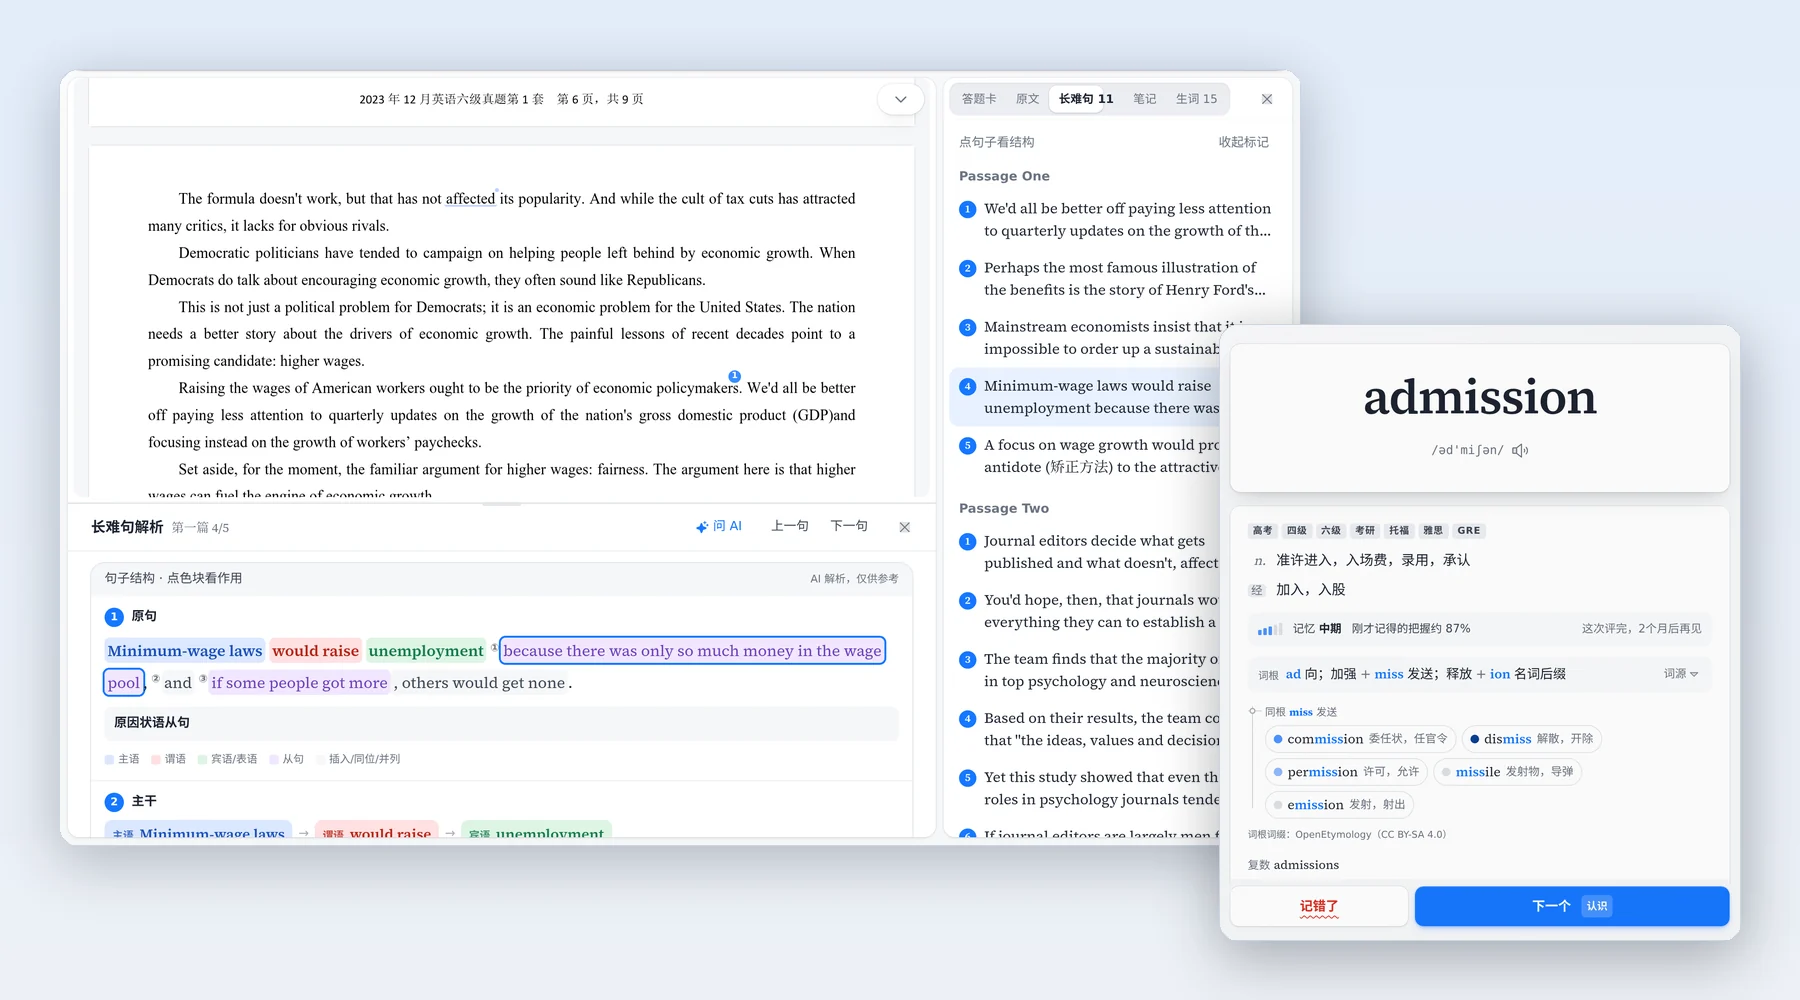
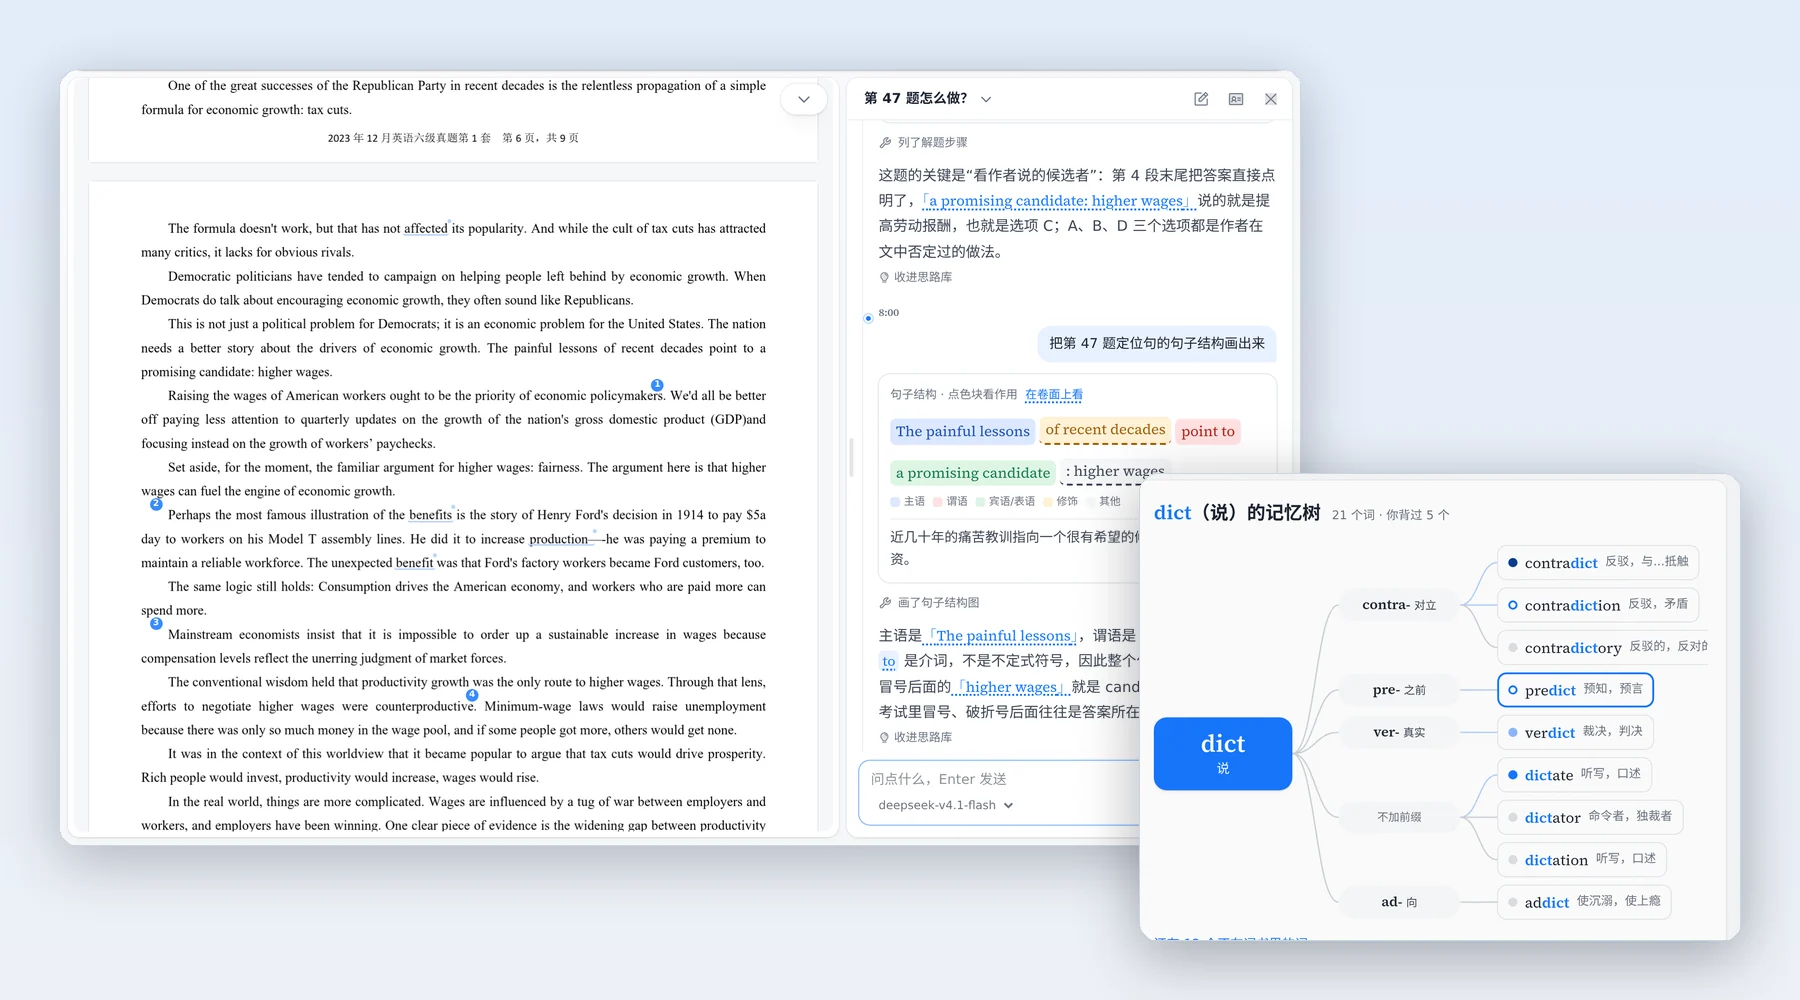
README：以 AI 助教为重点重排功能，配图全部换成新截图

Changed region(s): [[0.0622, 0.093, 0.9956, 0.961], [0.0933, 0.062, 0.4356, 0.155], [0.7156, 0.899, 0.7467, 0.93]]

diff --git a/README.md b/README.md
@@ -16,7 +16,7 @@ React · TypeScript · Vite · PWA · IndexedDB · PDF.js · FSRS
 </div>
 
 <p align="center">
-  <img src="docs/images/hero.webp" alt="英语之道：原卷做题、长难句结构解析和背词卡片" width="100%">
+  <img src="docs/images/hero.webp" alt="英语之道：AI 助教在卷子旁边画句子结构图，右下是记忆树" width="100%">
 </p>
 
 ## 为什么做这个
@@ -36,22 +36,84 @@ flowchart LR
 ```
 
 - **原卷就是界面**：每套卷子都按原版 PDF 显示，不改写成网页题目。点词查词、点题号选答案、用笔在卷面上写。
-- **AI 看得到你的上下文**：助教能看到当前文章、题目、你的作答、对错、每题用时和卷面笔记，不用复制粘贴。
+- **AI 看得到你的上下文**：助教能看到当前文章、题目、你的作答、对错、每题用时和卷面笔记，能读写生词本和错题本，还记得你的薄弱点，不用复制粘贴。
 - **生词本就是词书**：在卷子里查过的词带着原句进生词本，之后再出现在别的卷子里会被标出来。
 - **数据在本地**：做题记录、笔记、生词和复习进度都存在浏览器的 IndexedDB 里，可以离线使用，也能导出备份。
 
 ## 功能
+
+### AI 助教
+
+<img src="docs/images/agent-steps.webp" alt="AI 助教在卷子旁边分屏讲第 47 题：解题步骤卡，一步一步点开" width="100%">
+
+在卷子旁边分屏打开。它看得到整套卷子和你的作答，问「第 47 题怎么做」，回答里直接嵌一张解题步骤卡，按固定顺序一步一步点开：
+
+1. **读题**：这道题问什么，属于哪类题；
+2. **定位**：去文章哪里找，关键词是什么；
+3. **定位句**：把原文句子引出来并解释；
+4. **解题和排除**：为什么选这个，其他选项错在哪。
+
+<table>
+<tr>
+<td width="33%"><img src="docs/images/agent-map.webp" alt="回答里嵌入句子结构图"></td>
+<td width="33%"><img src="docs/images/agent-review.webp" alt="交卷后找 Agent 复盘整套卷子"></td>
+<td width="33%"><img src="docs/images/agent-vocab.webp" alt="Agent 查生词本，给出词汇卡"></td>
+</tr>
+<tr>
+<td><b>可视化回答</b>：句子结构图按成分分色，点色块看作用，也能在卷面上对照。</td>
+<td><b>交卷复盘</b>：交卷单上点「找 Agent 复盘」，它按对错和每题用时讲错在哪、接下来怎么练。</td>
+<td><b>读写生词本</b>：查你的生词本，挑出这篇文章里还没背熟的词做成词汇卡，可以改释义、加词。</td>
+</tr>
+</table>
+
+**嵌在回答里的可视化**：解题步骤卡、句子结构图、定位句和选项的对照图、词汇卡、练习小测。在回答里选中英文词或短语可以加进生词本，任何一段都能收进解题思路库。
+
+**能读写全局数据**，不用复制粘贴：
+
+| 范围 | 能做什么 |
+|---|---|
+| 试卷 | 读当前文章、段落、题目、你的作答、对错、每题用时和卷面笔记；在卷面上标注、标出长难句 |
+| 生词本 | 查词、列出生词本、加词、改释义、删词、标记已掌握 |
+| 错题本 | 加入错题，按题型统计薄弱点 |
+| 解题思路库 | 把讲过的方法收进去，按题型归类 |
+| 学习者档案 | 聊完自动改写长期记忆 |
+
+<table>
+<tr>
+<td width="50%"><img src="docs/images/memory.webp" alt="设置里的学习者档案：Agent 的长期记忆"></td>
+<td width="50%"><img src="docs/images/methods.webp" alt="解题思路库"></td>
+</tr>
+<tr>
+<td><b>长期记忆</b>：一份学习者档案，写着考试目标、语法和词汇弱项、题型表现、喜欢的讲法。每次聊完由模型合并改写，在设置里能直接改或清空。另外每次对话都会带上从本机数据现算的学习情况：交卷次数、平均分、没掌握的错题、生词数。</td>
+<td><b>解题思路库</b>：解析里的「信号」、Agent 的回答、自己总结的方法，都能收进来，按题型归类，考前翻一遍。</td>
+</tr>
+</table>
+
+档案和对话都存在你自己的浏览器里。后端是一个只用 Python 标准库的小服务，转发到任意 OpenAI 兼容接口（DeepSeek、Gemini 等），密钥只放在服务器上。
 
 ### 原卷做题
 
 <img src="docs/images/exam-lookup.webp" alt="在原卷上点词查词" width="100%">
 
 - 原卷 PDF 渲染，带文字层：点一个词查词（自动还原词形，studies → study），框选几个词查短语或整句翻译。
+- 生词本里的词和短语，在之后的每套卷子里都会自动标出来。
 - 点题号或完形空位选答案，所选的词直接填进空位；交卷判分，按四六级官方规则折算分数。
 - 手写笔记：只有手写笔能写，手指用来滑动；支持压感、高亮、下划线、便签和橡皮擦，可撤销重做。
-- 听力播放器：按段跳转、单段循环、倍速，原文逐句同步高亮。
 - 两种模式：普通做题随时能看解析；全真模拟计时，交卷后才能看。
-- 专项训练：只截取原卷的一个部分练，比如只练仔细阅读，和整卷分开计分。
+- 专项训练：只截取原卷的一个部分练，比如只练听力或仔细阅读，和整卷分开计分。
+
+#### 听力和解析
+
+<table>
+<tr>
+<td width="50%"><img src="docs/images/listening.webp" alt="听力原文逐句同步，答案句用荧光笔和题号标出"></td>
+<td width="50%"><img src="docs/images/explain.webp" alt="每道题的解析：答案、信号、定位句、逐项排除"></td>
+</tr>
+<tr>
+<td><b>答案句标记</b>：听力原文逐句同步高亮，判过的题，答案所在的那句用荧光笔标出，句首有题号，点题号回到卷面上这道题。打开「答案句」开关，没做的题也能标出位置，但不给答案。每句都能单独看译文。</td>
+<td><b>解题思路</b>：每道题写出答案、题型和你选的；「信号」是这道题的解题线索，可收进思路库；下面是定位句，听力题能直接听这一句；再展开是思路、逐项排除、译文和生词。</td>
+</tr>
+</table>
 
 ### 长难句结构解析
 
@@ -59,52 +121,40 @@ flowchart LR
 
 默认不标，留给自己找。想对照时在右侧「长难句」里一键解析：卷面句首出现编号，点开是结构卡片，主语、谓语、宾语、从句、短语分色标出，下面是主干、译文、每个修饰成分修饰谁，以及怎么拆。也可以在卷面上选任意一句让 AI 现场分析。
 
-### AI 助教
+### 背单词：记忆树
 
-<img src="docs/images/agent.webp" alt="AI 助教在卷子旁边分屏讲题" width="100%">
+<img src="docs/images/roots.webp" alt="记忆树：dict 词根下按前缀长出同根词，圆点是记忆程度" width="100%">
 
-在卷子旁边分屏打开，问「第 47 题怎么做」，它按固定的顺序讲：
-
-1. **读题**：这道题问什么，属于哪类题；
-2. **定位**：去文章哪里找，关键词是什么；
-3. **定位句**：把原文句子划出来并解释；
-4. **解题和排除**：为什么选这个，其他选项错在哪。
-
-助教会记住你的薄弱点（长期记忆存在你自己的浏览器里，可在设置里查看、修改、清空）。后端是一个只用 Python 标准库的小服务，转发到任意 OpenAI 兼容接口（DeepSeek、Gemini 等），密钥只放在服务器上。
-
-### 背单词
+词根是树干，前缀是分叉，同根词是叶子，圆点颜色是你对每个词的记忆程度。点一个词，右边是它怎么拼出来（pre 之前 + dict 说 → 预知）、词源故事，以及同根词、短语和易混词三根枝：没有词根的词（take、look）靠短语枝记搭配，易混词（adapt / adopt、affect / effect）带区分要点。
 
 <table>
 <tr>
 <td width="50%"><img src="docs/images/review-card.webp" alt="背词卡片背面：释义、记忆等级、词根拆解和同根词"></td>
-<td width="50%"><img src="docs/images/roots.webp" alt="记忆树：一个词根下按前缀长出同根词"></td>
+<td width="50%"><img src="docs/images/digest.webp" alt="晚间单词速览：按词根分组，遮住中文逐格自测"></td>
 </tr>
 <tr>
-<td><b>背词卡片</b>：想不起来先要提示，第一次只给拆法（ad + miss + ion），第二次给每块的意思。背面是释义、记忆等级、词根和同根词。</td>
-<td><b>记忆树</b>：词根是树干，前缀是分叉，同根词是叶子；圆点颜色是你对每个词的记忆程度。没有词根的词长「短语」枝，易混词长「辨析」枝。</td>
+<td><b>背词卡片</b>：想不起来先要提示，第一次只给拆法（ad + miss + ion），第二次给每块的意思。背面是释义、记忆等级和这个词的小记忆树。</td>
+<td><b>晚间速览</b>：当天的词按同根、易混、后缀规则排成一张表，左边单词右边释义，可以遮住中文或英文，逐格点开自测。</td>
 </tr>
 </table>
 
+- **生词本是主词书**：在卷子里查过的词带着真题出处和原句进生词本，之后再出现在别的卷子里会被标出来。
 - **FSRS 调度**：用 [ts-fsrs](https://github.com/open-spaced-repetition/ts-fsrs) 按遗忘曲线安排复习。按 FSRS 估计的「不复习能记多久」，每个词分刚学、短期、中期、长期、牢固 5 个记忆等级。
 - **一天多轮**：默认每天 3 轮（早、中、晚），可设 1–5 轮。第一轮正式复习并评分；之后几轮「快速过」，只是多看几遍，不改复习安排。
-- **晚间速览**：当天的词按同根、易混、后缀规则排成一张表，左边单词右边释义，可以遮住中文或英文，逐格点开自测。
-- **生词本**：自动记录真题出处和原句，按试卷筛选、搜索，导出 CSV 或打印。
 - **词书**：四级、六级、考研大纲词表，按每日计划加入新词；约 6000 个词带美音、英音真人发音，离线可播。
-
-<p align="center">
-  <img src="docs/images/digest.webp" alt="晚间单词速览：按词根分组，遮住中文逐格自测" width="80%">
-</p>
 
 ### 更多页面
 
 <table>
 <tr>
-<td width="50%"><img src="docs/images/home.webp" alt="首页：推荐下一套、今天要做的事、本周进度"></td>
-<td width="50%"><img src="docs/images/papers.webp" alt="真题列表：按考试和年份排列"></td>
+<td width="33%"><img src="docs/images/home.webp" alt="首页：推荐下一套、今天要做的事、本周进度"></td>
+<td width="33%"><img src="docs/images/papers.webp" alt="真题列表：按考试和年份排列"></td>
+<td width="33%"><img src="docs/images/result.webp" alt="交卷单：得分、错题、找 Agent 复盘"></td>
 </tr>
 <tr>
 <td><b>首页</b>：推荐下一套卷子、今天要背的词和该练的题型，以及考试倒计时。</td>
 <td><b>真题列表</b>：按考试和年份排，显示每套卷子的进度。</td>
+<td><b>交卷单</b>：得分、用时、错题一览，错题自动进错题本。</td>
 </tr>
 </table>
 
@@ -112,12 +162,8 @@ flowchart LR
 
 ## 适配
 
-<p align="center">
-  <img src="docs/images/devices.webp" alt="平板竖屏做题、手机背词卡片和手机单词速览" width="100%">
-</p>
-
-- **平板优先**：主要按平板横屏手写做题设计，竖屏和手机也能用。
-- **PWA**：可以安装到桌面或手机主屏；应用和词典数据离线缓存，没网也能做已打开过的卷子、背词。
+- **平板优先**：按平板横屏手写做题设计。
+- **PWA**：可以安装到桌面；应用和词典数据离线缓存，没网也能做已打开过的卷子、背词。
 - **手指和笔分开**：手指滑动翻页，手写笔才落墨，不会滑一下就画一道。
 
 ## 技术架构
@@ -226,4 +272,4 @@ docs/           设计文档、试卷数据格式、截图
 
 ## 截图说明
 
-README 里的截图来自真实界面，卷面是 2023 年 12 月大学英语六级第 1 套；生词、记忆进度等学习数据是演示用的示例数据。
+README 里的截图来自真实界面，卷面是 2023 年 12 月大学英语六级第 1 套；生词、记忆进度等学习数据是演示用的示例数据；AI 助教的回答是线上模型（deepseek-v4.1-flash）当场生成的，没有改动。
